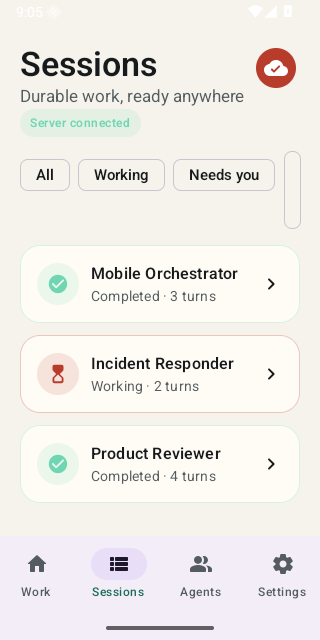
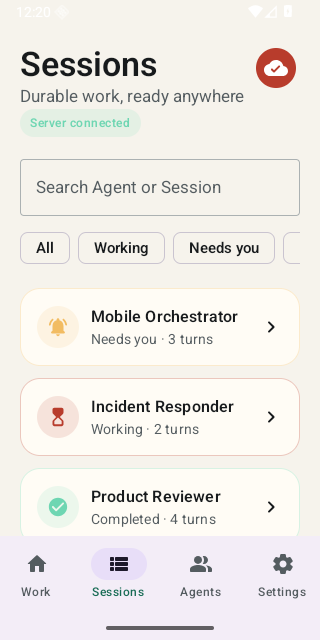
docs(mobile): capture complete Session discovery

diff --git a/spec/STATUS.md b/spec/STATUS.md
@@ -72,7 +72,7 @@ planned without reopening a narrower completed row.
 | A-DESKTOP-WA | Governed Workspaces and artifacts | accepted | accepted | documented | partial | partial | active | Complete remaining accessibility/package matrices. Session detach has an idempotent durable receipt and restart-safe projection; global revoke journals a manifest-v2 tombstone and retries Keychain cleanup after restart. Artifact export now journals only bounded opaque pending IDs, removes the exact interrupted temporary when its directory is next explicitly authorized, preserves unrelated files, and never persists or exposes a path. Immutable receipt-bound Artifact projection, digest-verified preview and one-shot no-overwrite export are implemented, and the real SQLite approval-to-file-to-Artifact flow passes. |
 | A-DESKTOP-VE | Desktop visual, journey and manual evidence | accepted | accepted | documented | partial | missing | active | The deterministic evidence verifier, Chinese manual source, eight-page tagged draft and 18-entry outline are implemented. Unlock a supported Mac, execute the stable 62-row M01–M85 full-function capture matrix on the exact candidate, close visual defects, emit a digest-bound safe screenshot manifest, replace every pending marker, and independently verify PDF/UA plus VoiceOver reading order. Deterministic fixtures prove presentation only, never product behavior. |
 | A-MOBILE | KMP/Android/iOS shells | accepted | accepted | documented | implemented | verified | done | Keep KMP real-loopback transport, XCFramework, Swift, Android SDK 36 APK and API 36 Compose instrumentation gates green; remote physical-device connectivity is not claimed. |
-| A-MOBILE-R | Native remote-work mobile product | accepted | accepted | documented | implemented | partial | active | KMP controller, secure pairing, native Compose/SwiftUI product, installable builds, Gateway/private APNs/FCM wake paths, complete 29-screenshot user guide, real native loopback actions, offline/reconnect, semantic icon navigation, dark/200%-equivalent type, Android landscape and iPad layout evidence are verified locally. Ambiguous mutations now persist strict digest-bound identity/input records across process restart, including two-stage create/start recovery, exact retry and warned local abandonment; the recovery controls remain actionable after reads reconnect. Authentication failure returns both native shells to pairing. Settings includes persistent theme, system notification controls, verified host and safe build/device diagnostics. Unpair requires an explicit scope-preserving confirmation. Android Keystore and Apple Keychain tests prove grants are absent from preferences, clear makes them unrecoverable and unpair rotates device identity. Close only with physical iOS/Android Gateway-to-Runtime create/reconnect/background/wake/decision/cancel/revoke evidence. |
+| A-MOBILE-R | Native remote-work mobile product | accepted | accepted | documented | implemented | partial | active | KMP controller, secure pairing, native Compose/SwiftUI product, installable builds, Gateway/private APNs/FCM wake paths, complete 29-screenshot user guide, real native loopback actions, offline/reconnect, semantic icon navigation, local Session search/status filters, dark/200%-equivalent type, Android landscape and iPad layout evidence are verified locally. Native 26-character lowercase sortable command identities now match the accepted mutation contract. Ambiguous mutations persist strict digest-bound identity/input records across process restart, including two-stage create/start recovery, exact retry and warned local abandonment; the recovery controls remain actionable after reads reconnect. Authentication failure returns both native shells to pairing. Settings includes persistent theme, system notification controls, verified host and safe build/device diagnostics. Unpair requires an explicit scope-preserving confirmation. Android Keystore and Apple Keychain tests prove grants are absent from preferences, clear makes them unrecoverable and unpair rotates device identity. Close only with physical iOS/Android Gateway-to-Runtime create/reconnect/background/wake/decision/cancel/revoke evidence. |
 | A-UX1-A | Shared product controller | accepted | accepted | documented | implemented | verified | done | Keep exact TypeScript/KMP fixture parity, strict fixture readers, Host projection, correlation, mutation, reconnect, activity, preference and native XCFramework gates green. |
 | A-UX1 | Product client experience | accepted | accepted | partial | partial | partial | active | UX-A and Desktop UX-B are complete: the work surface now runs through the shared controller with exact create/start/cancel/text-or-boolean continuation commands, atomic bounded preference/pending recovery, restart-safe multi-turn evidence, keyboard/focus/contrast/reduced-motion checks, 200% zoom and 320px reflow. Close UX-C shared Web/native UI plus remaining localization and physical-device accessibility matrices. |
 | G0 | Go Gateway | accepted | accepted | documented | implemented | verified | done | Keep TLS-only edge composition, one-time device pairing, route/header admission, SSE passthrough, expiry/revocation and race tests green; durable multi-instance grants are a later slice. |
